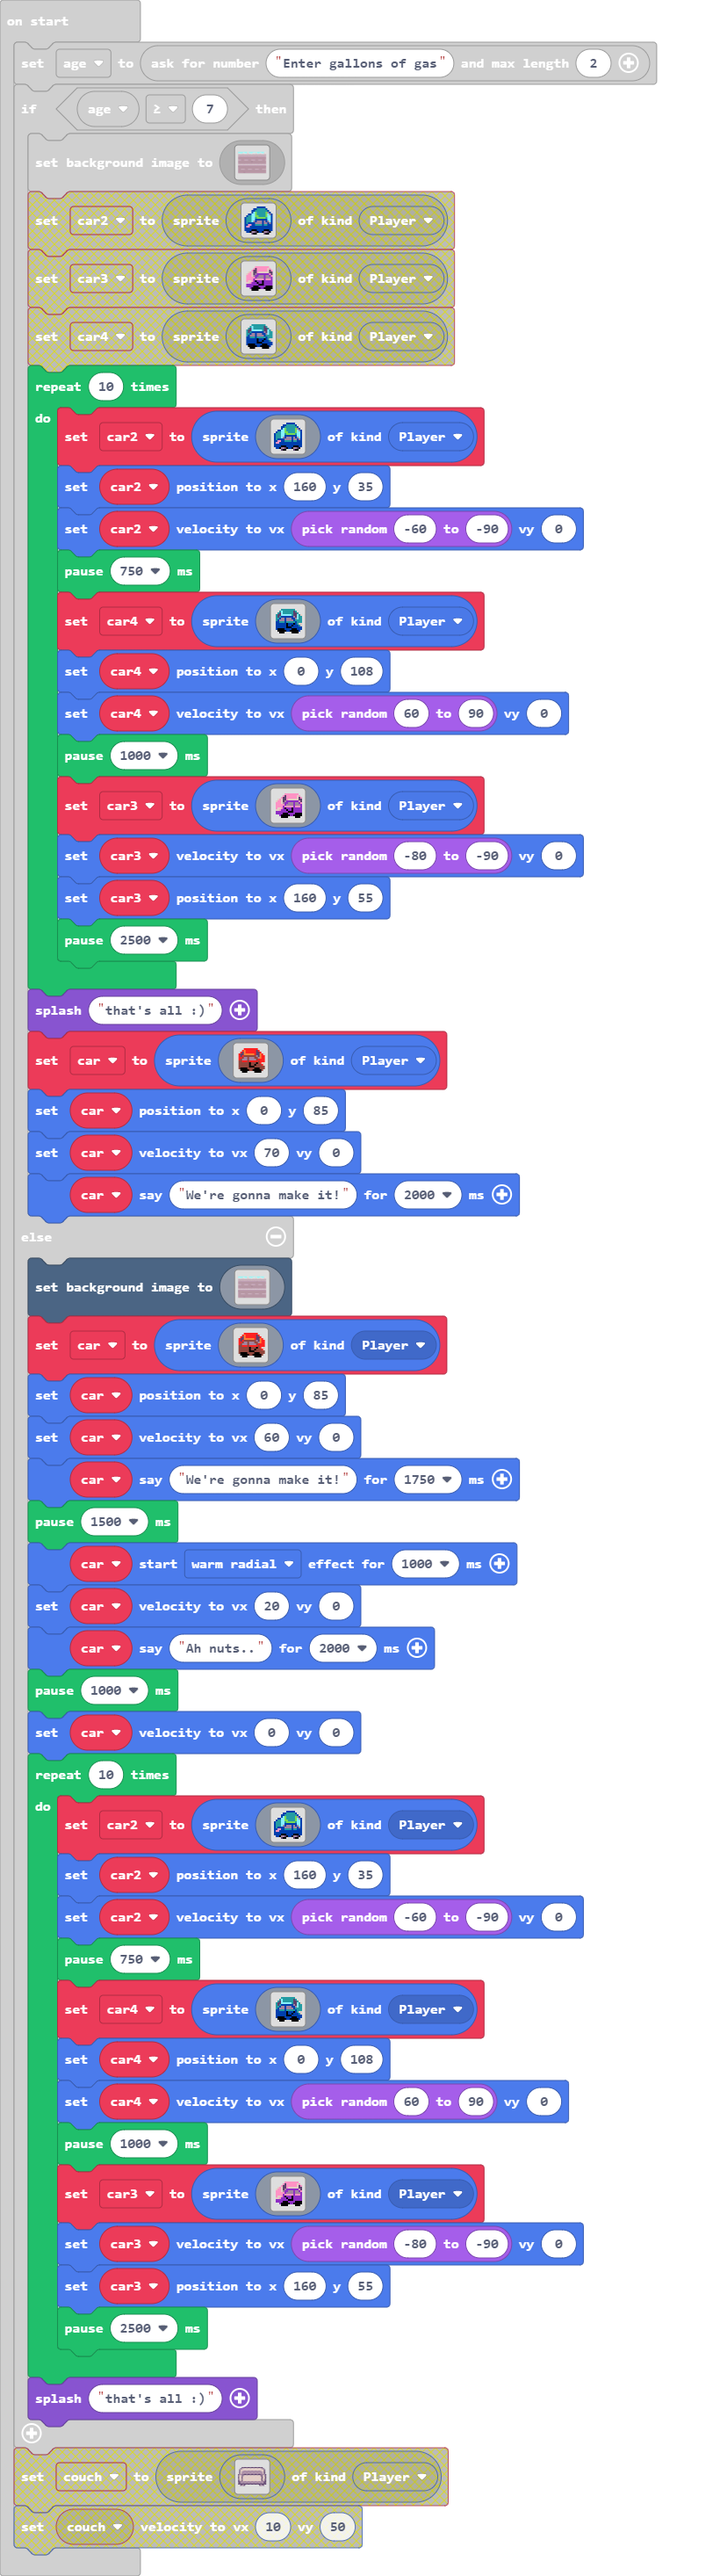
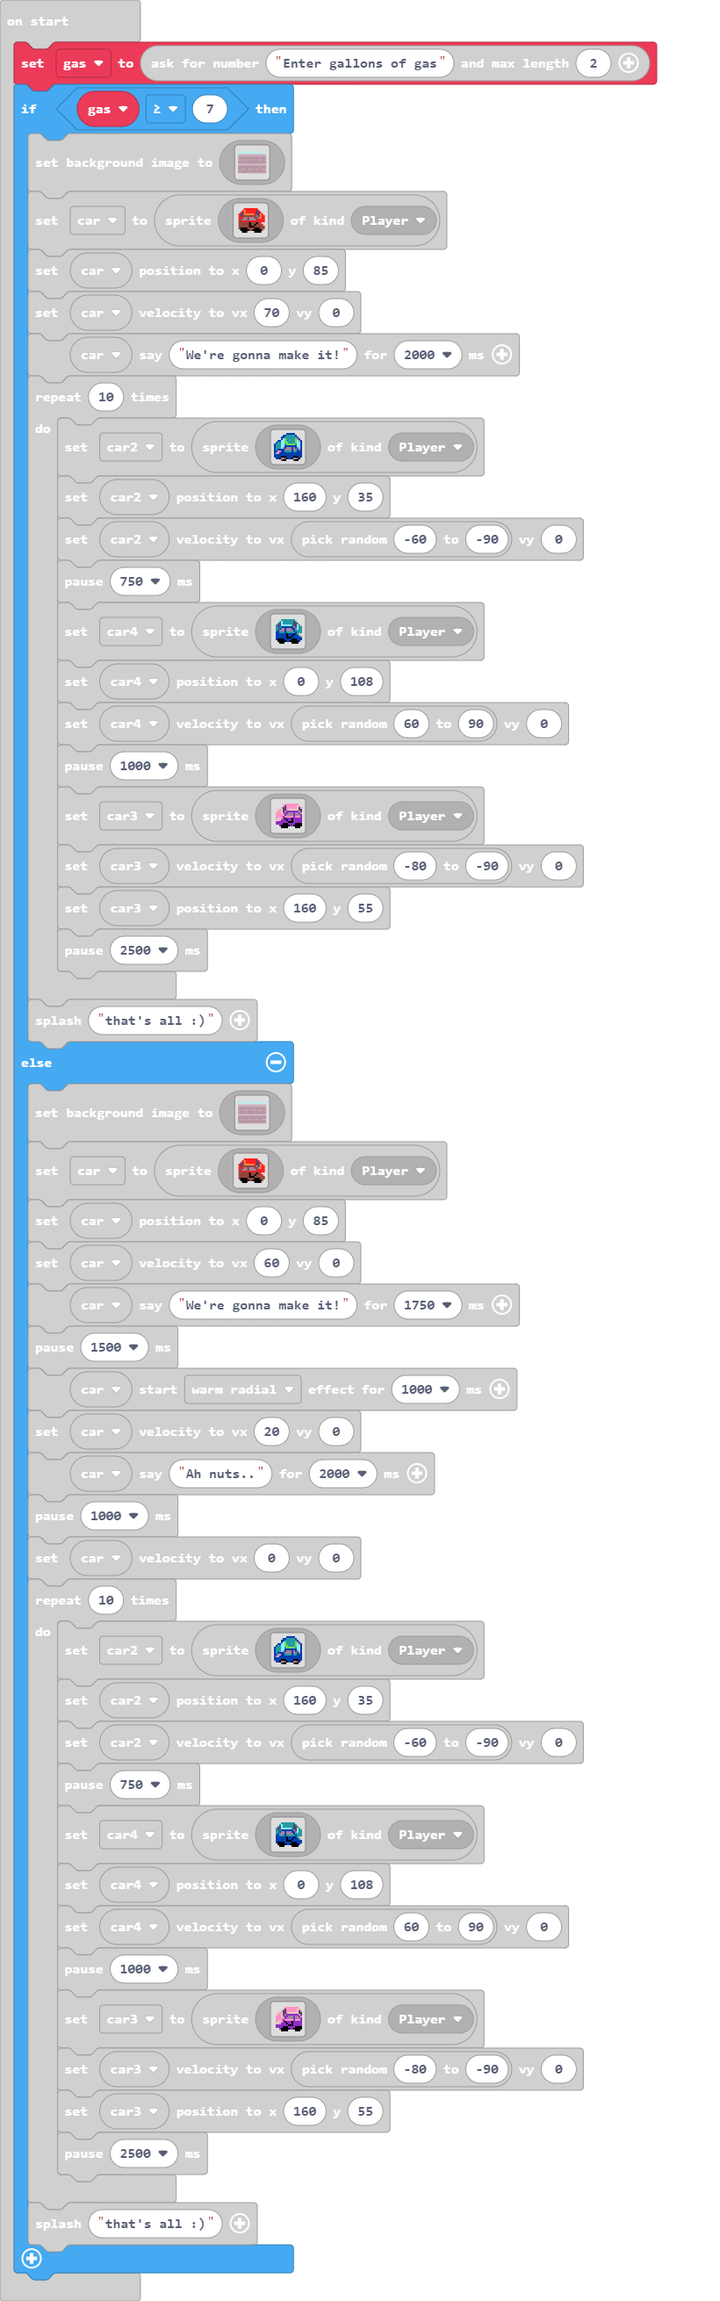
ACTUALLY finished

diff --git a/main.ts b/main.ts
@@ -2,8 +2,8 @@ let car3: Sprite = null
 let car4: Sprite = null
 let car2: Sprite = null
 let car: Sprite = null
-let age = game.askForNumber("Enter gallons of gas", 2)
-if (age >= 7) {
+let gas = game.askForNumber("Enter gallons of gas", 2)
+if (gas >= 7) {
     scene.setBackgroundImage(img`
         9999999999999999999999999999999999999999999999999999999999999999999999999999999999999999999999999999999999999999999999999999999999999999999999999999999999999999
         9999999999999999999999999999999999999999999999999999111111111119999999999999999999999999999999999999991111999999999999999999999999999999999999999999111111111111
